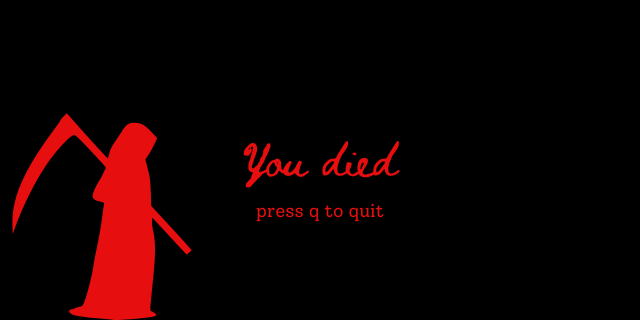
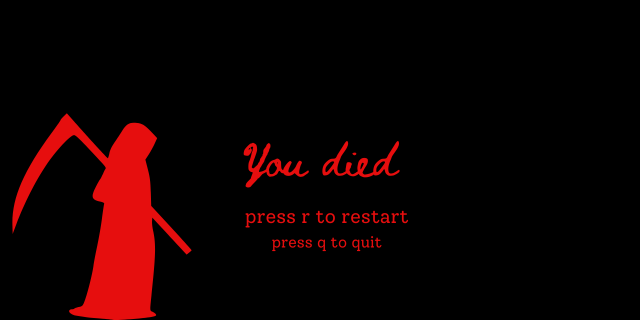
Adds restart feature to pongGame

Changed region(s): [[0.375, 0.625, 0.6562, 0.7188], [0.4062, 0.75, 0.5938, 0.7812]]

diff --git a/pongGame.py b/pongGame.py
@@ -146,8 +146,13 @@ if startInput == startKey:
         cv2.imshow("Camera window", frame)
       else:
         cv2.imshow("Camera window", deathScreen)
+        if cv2.waitKey(1) == ord("r"):
+                death = False
+                life = 3
+                ballSpeed = 5
       cv2.moveWindow("Camera window",0,0)
     
 
       if cv2.waitKey(1) == ord("q"):
             break
+      
